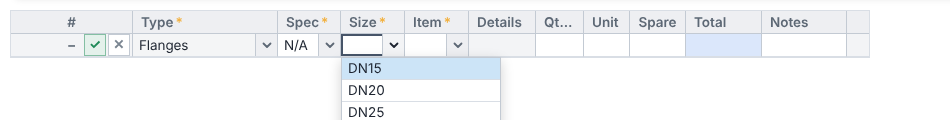
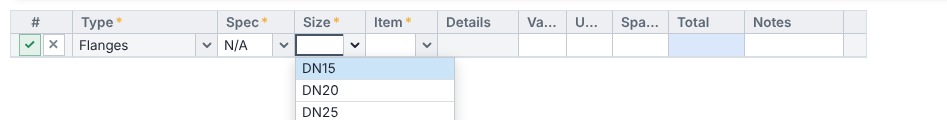
New action row option 1; the tick and cross alone in the ID or # cell
The new action row's Title is orange with "+ New action" in italics. Its
ID cell is empty until a title is typed, then holds just the tick and
cross; no room is kept for them. The MTO row being made shows just its
tick and cross in its # cell, the column fitting them only then.

Claude-Session: https://claude.ai/code/session_01W5x8yHWy8vuC88fxgyEZhp

diff --git a/js/table.js b/js/table.js
@@ -94,7 +94,7 @@ const Table = (() => {
     else if (k === "del"){ if (await confirmBox("Delete " + Store.actId(a) + "? It goes to the Deleted pill, where its bin brings it back.", "Delete", true)){ Flow.remove(a); if (App.selRef === tr.dataset.ref) App.select(null); } } }, true);
   /* titles are one line: a title too long for its column ends in … with a more… that shows it in full */
   /* the ID column is just wide enough for its box with an 8px margin each side, like the Status buttons */
-  let idW = NEED.id; const NR = 48;   /* (NR: room kept in the ID column for the new row's ✓ and ✕, so nothing shifts when they show) */
+  let idW = NEED.id;
   /* a tags cell shows as many tags as fit its width, the rest as +N (widen the column to see more) */
   function tagFit(el){ const vs = $$("td.tgc .tgv", el), rooms = vs.map(v => v.clientWidth), fonts = new Map(); vs.forEach((v, n) => { const a = App.act(v.closest("tr").dataset.ref), tags = a ? [].concat(a.f.equipment || []).filter(Boolean) : []; if (tags.length < 2) return;
     const t1 = $(".tg1", v), mb = $(".tg-more", v), font = fonts.get(t1.className) || (fonts.set(t1.className, getComputedStyle(t1).font), fonts.get(t1.className)), room = rooms[n] - 20 - (mb ? 34 : 0);
@@ -104,7 +104,7 @@ const Table = (() => {
     /* (the ID column is as wide as the widest ID there can be, every category's letters and the most digits, not the widest
        showing: recategorising an action never moves the columns) */
     const one = $("td.idc .aid", el); if (one){ const f = getComputedStyle(one).font, dg = "8".repeat(Math.max(4, String(Math.max(0, ...Store.all().map(x => x.no || 0))).length));
-      const want = Math.ceil(Math.max(...Store.idLetters().map(l => headW(l + "-" + dg, f)))) + 20 + 2 + (Store.S.edit ? NR : 0); if (Math.abs(want - idW) > 1){ idW = want; requestAnimationFrame(() => App.render()); } }
+      const want = Math.ceil(Math.max(...Store.idLetters().map(l => headW(l + "-" + dg, f)))) + 20 + 2; if (Math.abs(want - idW) > 1){ idW = want; requestAnimationFrame(() => App.render()); } }
     /* (all measured first, then all marked: one layout, not one per cell) */
     const tt = $$("td.ttl", el).map(td => { const t = $(".tt", td); return [td, !!t && t.scrollWidth > t.clientWidth + 1, !!t]; });
     const lt = $$("td.ltc", el).map(td => { const t = $(".lt-b", td), v = String((App.act(td.closest("tr").dataset.ref) || { f: {} }).f[t.dataset.lt] || ""); return [td, v.includes("\n") || t.scrollWidth > t.clientWidth + 1, true]; });
@@ -246,8 +246,8 @@ const Table = (() => {
   let nrText = "", nrFocus = false;
   function newRow(el, tb, cs){ const tr = document.createElement("tr"); tr.className = "nr"; const top = $("thead", el.querySelector(".tbl")).offsetHeight;
     cs.forEach(c => { const td = document.createElement("td"); td.style.top = top + "px";
-      if (c.type === "id"){ td.className = "idc nr-id"; td.innerHTML = '<span class="nr-p">+</span><span class="nr-okx"' + (nrText ? "" : " hidden") + '><button type="button" class="nr-ok" title="Make the action" aria-label="Make the action">✓</button><button type="button" class="nr-cx" title="Clear" aria-label="Clear">✕</button></span>'; }
-      else if (c.id === "title"){ td.className = "ed nr-t"; td.innerHTML = '<input class="in nr-in" aria-label="New action title" autocomplete="off" spellcheck="true" value="' + esc(nrText) + '">'; }
+      if (c.type === "id"){ td.className = "idc nr-id"; td.innerHTML = '<span class="nr-okx"' + (nrText ? "" : " hidden") + '><button type="button" class="nr-ok" title="Make the action" aria-label="Make the action">✓</button><button type="button" class="nr-cx" title="Clear" aria-label="Clear">✕</button></span>'; }
+      else if (c.id === "title"){ td.className = "ed nr-t"; td.innerHTML = '<input class="in nr-in" aria-label="New action title" placeholder="+ New action" autocomplete="off" spellcheck="true" value="' + esc(nrText) + '">'; }
       else if (TICK.has(c.type)) td.classList.add("tk");
       tr.appendChild(td); });
     tb.insertBefore(tr, tb.firstChild);

diff --git a/index.html b/index.html
@@ -8,7 +8,7 @@
 <link rel="manifest" href="manifest.json?v=2">
 <link rel="icon" href="icon.svg" type="image/svg+xml">
 <link rel="apple-touch-icon" href="apple-touch-icon.png">
-<link rel="stylesheet" href="css/app.css?v=1.10.262">
+<link rel="stylesheet" href="css/app.css?v=1.10.263">
 </head>
 <body>
 <div id="boot"><div class="bl"></div><div class="bar"><i></i></div><div class="bt">Loading actions</div></div>
@@ -47,41 +47,41 @@
 </main>
 <div id="mobile"></div>
 
-<script src="js/util.js?v=1.10.262"></script>
-<script src="js/look.js?v=1.10.262"></script>
-<script src="js/gh.js?v=1.10.262"></script>
-<script src="js/keys.js?v=1.10.262"></script>
-<script src="js/store.js?v=1.10.262"></script>
-<script src="js/local.js?v=1.10.262"></script>
-<script src="js/media.js?v=1.10.262"></script>
-<script src="js/fields.js?v=1.10.262"></script>
-<script src="js/flow.js?v=1.10.262"></script>
-<script src="js/word.js?v=1.10.262"></script>
-<script src="js/filters.js?v=1.10.262"></script>
-<script src="js/hold.js?v=1.10.262"></script>
-<script src="js/contacts.js?v=1.10.262"></script>
-<script src="js/table.js?v=1.10.262"></script>
-<script src="js/actionview.js?v=1.10.262"></script>
-<script src="js/kanban.js?v=1.10.262"></script>
-<script src="js/assets.js?v=1.10.262"></script>
-<script src="js/validation.js?v=1.10.262"></script>
-<script src="js/print.js?v=1.10.262"></script>
-<script src="js/excel.js?v=1.10.262"></script>
-<script src="js/intake.js?v=1.10.262"></script>
-<script src="js/vendors.js?v=1.10.262"></script>
-<script src="js/mtolib.js?v=1.10.262"></script>
-<script src="js/spec.js?v=1.10.262"></script>
-<script src="js/mto.js?v=1.10.262"></script>
-<script src="js/parts.js?v=1.10.262"></script>
-<script src="js/sheet.js?v=1.10.262"></script>
-<script src="js/isolsuggest.js?v=1.10.262"></script>
-<script src="js/isol.js?v=1.10.262"></script>
-<script src="js/sitemap.js?v=1.10.262"></script>
-<script src="js/docs.js?v=1.10.262"></script>
-<script src="js/drawings.js?v=1.10.262"></script>
-<script src="js/sketch.js?v=1.10.262"></script>
-<script src="js/workpack.js?v=1.10.262"></script>
-<script src="js/mobile.js?v=1.10.262"></script>
-<script src="js/app.js?v=1.10.262"></script>
+<script src="js/util.js?v=1.10.263"></script>
+<script src="js/look.js?v=1.10.263"></script>
+<script src="js/gh.js?v=1.10.263"></script>
+<script src="js/keys.js?v=1.10.263"></script>
+<script src="js/store.js?v=1.10.263"></script>
+<script src="js/local.js?v=1.10.263"></script>
+<script src="js/media.js?v=1.10.263"></script>
+<script src="js/fields.js?v=1.10.263"></script>
+<script src="js/flow.js?v=1.10.263"></script>
+<script src="js/word.js?v=1.10.263"></script>
+<script src="js/filters.js?v=1.10.263"></script>
+<script src="js/hold.js?v=1.10.263"></script>
+<script src="js/contacts.js?v=1.10.263"></script>
+<script src="js/table.js?v=1.10.263"></script>
+<script src="js/actionview.js?v=1.10.263"></script>
+<script src="js/kanban.js?v=1.10.263"></script>
+<script src="js/assets.js?v=1.10.263"></script>
+<script src="js/validation.js?v=1.10.263"></script>
+<script src="js/print.js?v=1.10.263"></script>
+<script src="js/excel.js?v=1.10.263"></script>
+<script src="js/intake.js?v=1.10.263"></script>
+<script src="js/vendors.js?v=1.10.263"></script>
+<script src="js/mtolib.js?v=1.10.263"></script>
+<script src="js/spec.js?v=1.10.263"></script>
+<script src="js/mto.js?v=1.10.263"></script>
+<script src="js/parts.js?v=1.10.263"></script>
+<script src="js/sheet.js?v=1.10.263"></script>
+<script src="js/isolsuggest.js?v=1.10.263"></script>
+<script src="js/isol.js?v=1.10.263"></script>
+<script src="js/sitemap.js?v=1.10.263"></script>
+<script src="js/docs.js?v=1.10.263"></script>
+<script src="js/drawings.js?v=1.10.263"></script>
+<script src="js/sketch.js?v=1.10.263"></script>
+<script src="js/workpack.js?v=1.10.263"></script>
+<script src="js/mobile.js?v=1.10.263"></script>
+<script src="js/app.js?v=1.10.263"></script>
 </body>
 </html>

diff --git a/js/parts.js b/js/parts.js
@@ -12,7 +12,7 @@ const Parts = (() => {
   function renderFor(el, a, kind, keep){ const ro = !Store.S.edit;
     el.innerHTML = '<div class="pt-main">' + pane(a, kind, ro) + '</div>'; wire(el, a, kind, ro);
     const tw = td => { const r = document.createRange(); r.selectNodeContents(td); return Math.ceil(r.getBoundingClientRect().width) + 28; };   // (the width of a cell's text: a steel parent's "4 LG (48 m)")
-    if (kind === "mto"){ const tb = $$(".mt-tbl", el); tb.forEach(t => gridCols(t, t.classList.contains("mt-pipe") ? "mtoP" : "mtoS", { fixed: { Type: (cx => { cx.font = getComputedStyle(t).font; return Math.ceil(Math.max(...Mto.types().map(x => cx.measureText(x).width))) + 46; })(document.createElement("canvas").getContext("2d")), "No.": (Store.S.edit ? 50 : 0) + Math.max(26, ...$$("td.pt-no", t).map(td => [...td.childNodes].reduce((w, b) => w + (b.nodeType === 3 ? (r => (r.selectNodeContents(b), Math.ceil(r.getBoundingClientRect().width)))(document.createRange()) : b.offsetWidth + 3), 12))), Value: Math.max(48, ...$$("td.mt-pq", t).map(tw), ...$$("td.mt-dims", t).map(td => [...td.children].reduce((w, b) => w + b.offsetWidth + 2, 6))), Spare: 56, Total: Math.max(76, ...$$("td.mt-tot", t).map(tw)), Unit: 46, x: Math.max(23, ...$$("td.mt-ic", t).map(td => [...td.children].reduce((w, b) => w + b.offsetWidth, 1))) }, extra: { Notes: 24, Details: 0 }, cap: { Details: 340 }, inPad: 36, hPad: 22, scroll: true }));   /* (the fit to the panel is done just below, Notes giving first) */
+    if (kind === "mto"){ const tb = $$(".mt-tbl", el); tb.forEach(t => gridCols(t, t.classList.contains("mt-pipe") ? "mtoP" : "mtoS", { fixed: { Type: (cx => { cx.font = getComputedStyle(t).font; return Math.ceil(Math.max(...Mto.types().map(x => cx.measureText(x).width))) + 46; })(document.createElement("canvas").getContext("2d")), "No.": Math.max(26, ...$$("td.pt-no", t).map(td => [...td.childNodes].reduce((w, b) => w + (b.nodeType === 3 ? (r => (r.selectNodeContents(b), Math.ceil(r.getBoundingClientRect().width)))(document.createRange()) : b.offsetWidth + 3), 12))), Value: Math.max(48, ...$$("td.mt-pq", t).map(tw), ...$$("td.mt-dims", t).map(td => [...td.children].reduce((w, b) => w + b.offsetWidth + 2, 6))), Spare: 56, Total: Math.max(76, ...$$("td.mt-tot", t).map(tw)), Unit: 46, x: Math.max(23, ...$$("td.mt-ic", t).map(td => [...td.children].reduce((w, b) => w + b.offsetWidth, 1))) }, extra: { Notes: 24, Details: 0 }, cap: { Details: 340 }, inPad: 36, hPad: 22, scroll: true }));   /* (the fit to the panel is done just below, Notes giving first) */
       /* (then each table fits its panel: when it's still wider, the free text columns give up width, their text ending in more…, so the row buttons always show at the right edge) */
       /* (done straight away, so the table never shows for a frame at its unfitted widths; a frame later only if it isn't laid out yet) */
       const fitP = () => tb.forEach(t => { const w = t.parentElement.clientWidth; if (!w) return; const cols = [...t.querySelectorAll("colgroup col")], ths = [...t.rows[0].cells];

diff --git a/css/app.css b/css/app.css
@@ -1721,9 +1721,9 @@ html.dark{--edf:var(--panel);--edh:color-mix(in srgb,var(--th) 14%,var(--panel))
 .dw-tbl tr.is-sr td:not(.is-pk){color:var(--dim)}
 /* every table has its outside edge too, not only the lines between the cells */
 .tbl{border:1px solid var(--line);box-sizing:border-box}
-/* the MTO row being made: ✓ (put it under its heading) and ✕ (clear it) just right of the # */
+/* the MTO row being made: ✓ (put it under its heading) and ✕ (clear it) in its # cell */
 .mt-tbl td.pt-no{position:relative!important;overflow:visible!important}
-.mt-okx{position:absolute;right:2px;top:50%;transform:translateY(-50%);display:flex;gap:2px}
+.mt-okx{display:inline-flex;gap:2px;vertical-align:middle}
 .mt-okx button{width:var(--row);height:var(--row);border:1px solid var(--line2);border-radius:0;background:var(--panel);cursor:pointer;font-weight:700;display:grid;place-items:center;padding:0;line-height:1}
 .mt-okx .mt-ok{color:#1f8a58;border-color:color-mix(in srgb,#1f8a58 55%,var(--panel));background:color-mix(in srgb,#1f8a58 12%,var(--panel))}.mt-okx .mt-ok:hover{background:color-mix(in srgb,#1f8a58 22%,var(--panel))}
 .mt-okx .mt-cx{color:var(--dim)}.mt-okx .mt-cx:hover{color:#c0392b}
@@ -1732,7 +1732,8 @@ html.dark{--edf:var(--panel);--edh:color-mix(in srgb,var(--th) 14%,var(--panel))
 .tbl tr.nr td{position:sticky;z-index:1;background:var(--panel);height:var(--row);border-bottom:2px solid var(--line2)!important}
 .tbl tr.nr td.nr-t{background:var(--need)}.tbl tr.nr .nr-in{width:100%;height:var(--row);border:0;border-radius:0;background:transparent;padding:0 6px;font:inherit}
 .tbl tr.nr .nr-in:focus{outline:0;box-shadow:inset 0 0 0 1px var(--focus)}
-.tbl tr.nr td.nr-id{padding:0 2px 0 8px;overflow:visible}.nr-p{font-weight:700;color:var(--th)}
+.tbl tr.nr td.nr-id{padding:0 2px 0 8px;overflow:visible}.nr-p{font-weight:700;color:#a3acb7}
+.tbl tr.nr .nr-in::placeholder{color:#a0753f;font-style:italic;opacity:1}
 .nr-okx{float:right;display:flex;gap:2px}.nr-okx[hidden]{display:none}
 .nr-okx button{width:var(--row);height:var(--row);border:1px solid var(--line2);border-radius:0;background:var(--panel);cursor:pointer;font-weight:700;display:grid;place-items:center;padding:0;line-height:1}
 .nr-okx .nr-ok{color:#1f8a58;border-color:color-mix(in srgb,#1f8a58 55%,var(--panel));background:color-mix(in srgb,#1f8a58 12%,var(--panel))}.nr-okx .nr-cx{color:var(--dim)}.nr-okx .nr-cx:hover{color:#c0392b}
@@ -1748,3 +1749,4 @@ html.dark{--edf:var(--panel);--edh:color-mix(in srgb,var(--th) 14%,var(--panel))
 /* the Actions list sits in the standard margin: the same 10px as the bar above it, so the table's left edge lines up with the
    Filters button and its top isn't jammed under the bar */
 #view[data-tab="actions"] .tbl-wrap{padding:10px;box-sizing:border-box}
+.tbl tr.nr td.nr-t,.tbl tbody tr.nr:hover td.nr-t{background:var(--need)!important}.tbl tr.nr td.nr-t .nr-in{background:transparent!important;border:0!important}

diff --git a/js/mto.js b/js/mto.js
@@ -571,8 +571,8 @@ const Mto = (() => {
     /* the total follows the spare as it's typed */
     $$(".mt-sq", el).forEach(i => i.addEventListener("input", () => { i.classList.remove("mt-sqa"); const it = find(i.dataset.r), td = i.closest("td").nextElementSibling; if (!it || !td || i.dataset.c !== "sq") return; const t = ord(Object.assign({}, it, { sq: i.value })); td.innerHTML = esc(t) + (t ? ' <span class="dim">' + esc(uShort(it.unit) || "EA") + '</span>' : ""); }));
     /* after a pick: the next box still to fill in on that row */
-    /* the row being made: its ✓ and ✕ sit just right of the # (the column always keeps room for them, so nothing shifts) */
-    $$(".mt-okx", el).forEach(x => { const tr = x.closest("tr"); if (tr && tr.cells[0]) tr.cells[0].appendChild(x); });
+    /* the row being made: its ✓ and ✕ in its # cell */
+    $$(".mt-okx", el).forEach(x => { const tr = x.closest("tr"); if (tr && tr.cells[0]){ tr.cells[0].textContent = ""; tr.cells[0].appendChild(x); } });   /* (just the ✓ and ✕ in its # cell; the column fits them only while a row is being made) */
     /* the one box to fill in next on each row still being entered is orange (not every empty one) */
     items.filter(it => it.draft || missing(it).length).forEach(it => { const nx = after(it.id), b = nx && boxOf(nx); if (b) b.closest("td").classList.add("mt-nx"); });
     if (focusNext && focusNext.nx){ const it = find(focusNext.id), nx = it && after(it.id); focusNext = nx ? nx : it && it.draft && !missing(it).length ? { id: it.id, done: 1 } : focusNext.alt || null; }

diff --git a/js/app.js b/js/app.js
@@ -1,6 +1,6 @@
 /* Start up, the header (menus, project box, tabs, save light), settings and keyboard shortcuts. */
 "use strict";
-const APP_VERSION = "1.10.262";
+const APP_VERSION = "1.10.263";
 const LOGO = (s, c) => '<svg class="logo" width="' + s + '" height="' + s + '" viewBox="0 0 64 64" aria-hidden="true"><rect width="64" height="64" rx="18" fill="' + (c || "var(--thb)") + '"/><rect x="6" y="6" width="52" height="52" rx="13" fill="none" stroke="#fff" stroke-width="2.5"/><text x="29" y="46" text-anchor="middle" font-family="system-ui,Segoe UI,Arial,sans-serif" font-weight="800" font-size="38" fill="#fff">A</text><g transform="translate(46 19)" stroke="#fff" stroke-width="2.6" stroke-linecap="round"><line x1="0" y1="-5.5" x2="0" y2="5.5"/><line x1="-4.8" y1="-2.75" x2="4.8" y2="2.75"/><line x1="-4.8" y1="2.75" x2="4.8" y2="-2.75"/></g></svg>';
 /* fonts to pick from (View): the default, then web fonts loaded only when picked */
 const FONTS = [["default", "Default", "'Aptos',system-ui,-apple-system,'Segoe UI',Roboto,sans-serif"], ["inter", "Inter", "'Inter',system-ui,sans-serif", "Inter:wght@400;500;600;700;800"], ["roboto", "Roboto", "'Roboto',system-ui,sans-serif", "Roboto:wght@400;500;700;900"],

diff --git a/CLAUDE.md b/CLAUDE.md
@@ -17,7 +17,7 @@ How the owner (Bijan) likes this app built. These come from many rounds of build
 - One look everywhere: when a style is picked (the (i) symbol, dropdowns, date boxes, buttons), apply it across the whole app, not just where it was asked about.
 - Three type styles only: big header (`--fh`), small header (`--fs`: section and field names, column headings) and body (`--fb`: all other text, tables, boxes, pills). Never a font size in px; they all follow the text size setting.
 - Every control is 28px high (boxes, buttons, tabs, chips); tick boxes 18px. Don't change heights when restyling. Inside tables it's different (below).
-- Tables, every one the same (compact, like Outlook's compact view and Excel): 22px rows, 13px text, a faint line between every cell. Cells are square and edge to edge (no rounded boxes). Fills: filled in by hand (typed or picked) white; filled in by the app faint blue (white once typed over); needed and still empty faint orange (`--need`; only cells that are really needed: Category, Tags (– when there is no tag), steps still to tick; never Notes). No hint text in empty table cells. Buttons in a row (hold, done, delete, duplicate, ✕) are square cells of the grid with the symbol in the middle. Tick columns are one square cell each (the cell is the tick: green ✓ done, grey – not needed), headed by one word set on end with an (i) for the rest. The number column is always # and as narrow as its numbers. Anything that would make a row taller (an explanation, a long note) goes in an (i) instead. Nothing in a table ever wraps or makes a row taller: text that does not fit stays on one line and ends in "more…" (gridCols does this for every table). Dropdown cells are strict lists (only what's in the list), one click opens them, Excel style. One click on a Tags cell opens the Tags picker (the action's tags ticked on top, a search box, the plant list matches below with ticks, add as typed, – for none; each tick saves). Every dropdown (and every suggestion list) is a little table: square, one 22px row per choice with a line under it, a choice's code, symbol and few words each in their own cell, the groups as shaded rows like the name cells. Short lists (12 or fewer) number their choices [1] to [9] in the open list only, so the arrow then a number picks one. The selected action has no fill, just a 2px slate edge round the whole row (lighter slate in dark); a dropdown's arrow sits flush in its cell and an open dropdown gets no thick edge. A handed over, complete or deleted action has its words struck through (never the ticks, buttons or symbols, and never a line across the row). On Hold and Delete are two columns, each dragged on its own; by default they are the last columns. There is no + Add column: which columns show is picked in Data validation, Columns, In the table (the admin's tick sets everyone's; anyone else's tick is their own view only). Every table has its outside edge as well as the lines between cells. Dragging a heading moves the column live under the pointer, so nothing jumps on release. Headings look exactly like the name cells (`--hdr` fill: light grey with a faint tint of the theme colour; grey semibold words); tables need no card or box round them, start on the same left edge as the headings above them, and an add row has a cell under every column so the lines run straight; the ID is the body text in bold. Tables are only as wide as their columns (never stretched to fill the screen): narrowing a column brings the right edge in. A row being made (the Actions list's pinned top row, the MTO's add row) has its ✓ and ✕ beside the ID or #, in room that column always keeps, so nothing shifts. Use the `--row`, `--edf`, `--autof` tokens in css/app.css.
+- Tables, every one the same (compact, like Outlook's compact view and Excel): 22px rows, 13px text, a faint line between every cell. Cells are square and edge to edge (no rounded boxes). Fills: filled in by hand (typed or picked) white; filled in by the app faint blue (white once typed over); needed and still empty faint orange (`--need`; only cells that are really needed: Category, Tags (– when there is no tag), steps still to tick; never Notes). No hint text in empty table cells. Buttons in a row (hold, done, delete, duplicate, ✕) are square cells of the grid with the symbol in the middle. Tick columns are one square cell each (the cell is the tick: green ✓ done, grey – not needed), headed by one word set on end with an (i) for the rest. The number column is always # and as narrow as its numbers. Anything that would make a row taller (an explanation, a long note) goes in an (i) instead. Nothing in a table ever wraps or makes a row taller: text that does not fit stays on one line and ends in "more…" (gridCols does this for every table). Dropdown cells are strict lists (only what's in the list), one click opens them, Excel style. One click on a Tags cell opens the Tags picker (the action's tags ticked on top, a search box, the plant list matches below with ticks, add as typed, – for none; each tick saves). Every dropdown (and every suggestion list) is a little table: square, one 22px row per choice with a line under it, a choice's code, symbol and few words each in their own cell, the groups as shaded rows like the name cells. Short lists (12 or fewer) number their choices [1] to [9] in the open list only, so the arrow then a number picks one. The selected action has no fill, just a 2px slate edge round the whole row (lighter slate in dark); a dropdown's arrow sits flush in its cell and an open dropdown gets no thick edge. A handed over, complete or deleted action has its words struck through (never the ticks, buttons or symbols, and never a line across the row). On Hold and Delete are two columns, each dragged on its own; by default they are the last columns. There is no + Add column: which columns show is picked in Data validation, Columns, In the table (the admin's tick sets everyone's; anyone else's tick is their own view only). Every table has its outside edge as well as the lines between cells. Dragging a heading moves the column live under the pointer, so nothing jumps on release. Headings look exactly like the name cells (`--hdr` fill: light grey with a faint tint of the theme colour; grey semibold words); tables need no card or box round them, start on the same left edge as the headings above them, and an add row has a cell under every column so the lines run straight; the ID is the body text in bold. Tables are only as wide as their columns (never stretched to fill the screen): narrowing a column brings the right edge in. A row being made (the Actions list's pinned top row, the MTO's add row) has just its ✓ and ✕ in the ID or # cell (no ID or number shown); the column widens to fit them only while a row is being made. The Actions row's Title is orange with "+ New action" in italics. Only one is made at a time. Use the `--row`, `--edf`, `--autof` tokens in css/app.css.
 - Forms of single row items are little tables like the Actions rows (On hold card, Details' Contractor, Handover and Record, and anything else that never wraps): a short name in a shaded cell, the box edge to edge, 22px rows, faint lines; two pairs to a row (name, box, name, box) where there's room. Several line boxes (Note) stay a box below with the name above. Toggles are a plain switch (amber on). Lists of settings (a column's allowed values, the Status stages) are tables too: a cell each for grip, colour, box, count and ✕, the add box as the last row.
 - Compact and tight: no redundant headings, labels, counts or "Empty"/"None yet" lines. Space goes to the content.
 - Text cut off for length ends in "more…" (opens the full text). The (i) is only for explaining something, not for cut off text.
